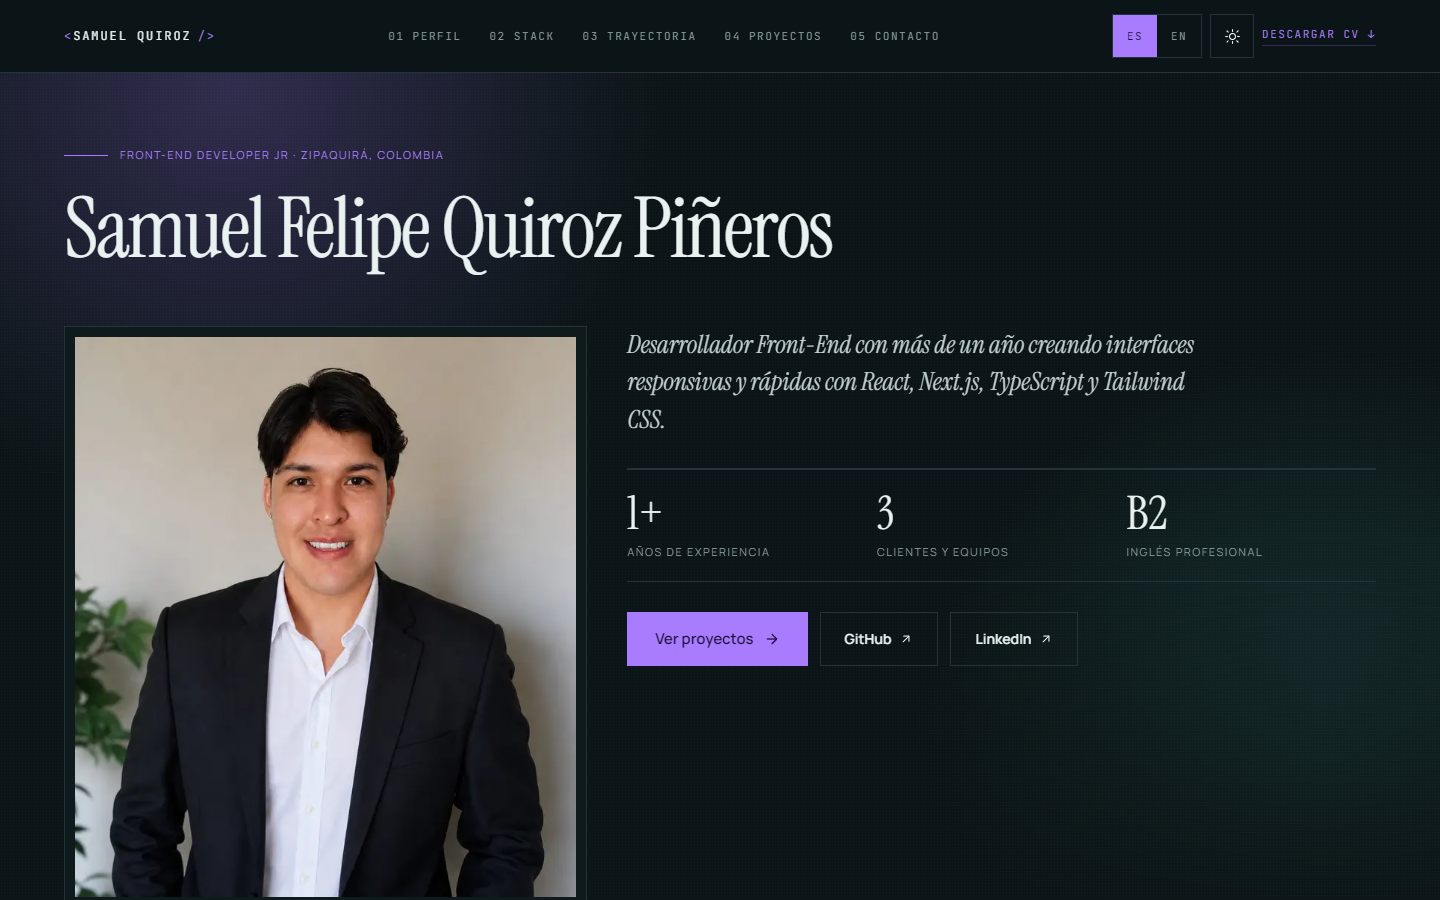
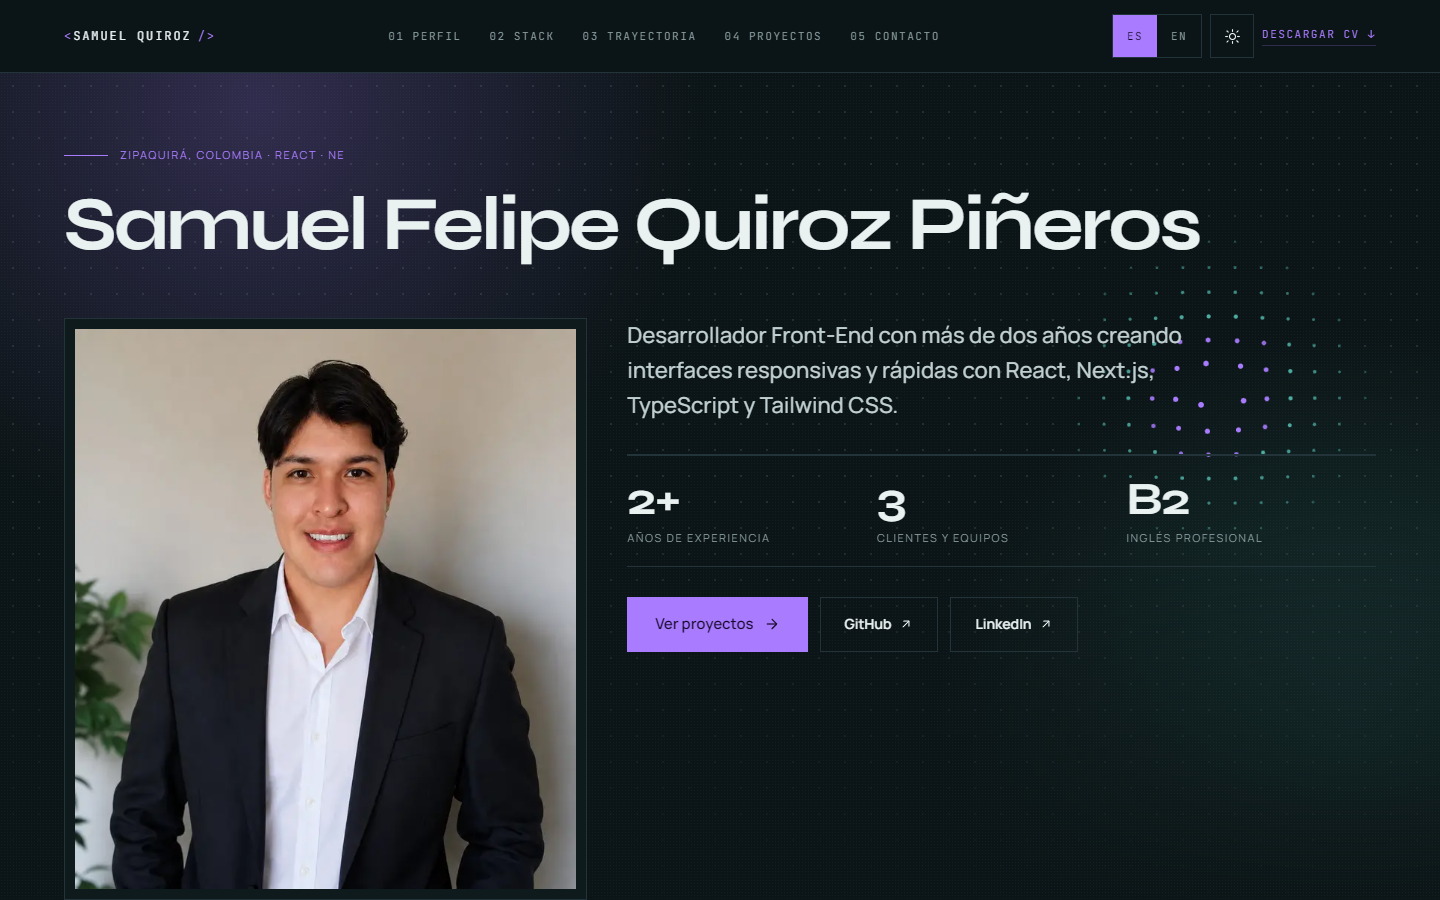
docs: README con la web en vivo, captura nueva y las funciones actuales
- Enlace a https://samuel-quiroz.vercel.app y badge de Lighthouse
- Describe Syne, el fondo interactivo, la inclinación 3D, la cinta del stack y los roles
- Captura tomada de la versión publicada

diff --git a/README.md b/README.md
@@ -7,10 +7,13 @@
 Portafolio personal construido con Next.js 15, TypeScript y Tailwind CSS v4.
 Lo diseñé y lo construí yo, sin plantillas.
 
+### [▶ Verlo en vivo · samuel-quiroz.vercel.app](https://samuel-quiroz.vercel.app)
+
 ![Next.js](https://img.shields.io/badge/Next.js_15-0b1416?style=flat-square&logo=nextdotjs&logoColor=white)
 ![React](https://img.shields.io/badge/React_19-0b1416?style=flat-square&logo=react&logoColor=5fd3c4)
 ![TypeScript](https://img.shields.io/badge/TypeScript-0b1416?style=flat-square&logo=typescript&logoColor=a97bff)
 ![Tailwind CSS](https://img.shields.io/badge/Tailwind_v4-0b1416?style=flat-square&logo=tailwindcss&logoColor=5fd3c4)
+![Lighthouse](https://img.shields.io/badge/Lighthouse-100_%C2%B7_100_%C2%B7_100_%C2%B7_100-0b1416?style=flat-square&logo=lighthouse&logoColor=5fd3c4)
 
 ![Vista previa del portafolio](docs/preview.png)
 
@@ -20,9 +23,16 @@ Lo diseñé y lo construí yo, sin plantillas.
 
 - **Tema claro y oscuro.** Al cambiar de tema, el nuevo se expande en círculo desde el botón (View Transitions API).
 - **Dos idiomas, español e inglés.** Todos los textos viven en un solo diccionario tipado.
-- **Animaciones propias, sin librerías.** El nombre se «descifra» como en una terminal, los títulos suben palabra a palabra y las líneas de sección se dibujan solas. Las tarjetas tienen un foco que sigue al cursor y hay una barra de lectura ligada al scroll.
-- **Rendimiento.** Solo se anima `transform`, `opacity` y `clip-path`. Todo el sistema de movimiento suma unos 3 kB de JavaScript y la página es estática.
-- **Accesibilidad.** Respeta `prefers-reduced-motion` y los lectores de pantalla leen siempre el texto real, no los caracteres del efecto. Sin JavaScript, la página se ve completa.
+- **Fondo interactivo.** Una cuadrícula de puntos en canvas que se enciende y se aparta alrededor del cursor. Solo dibuja mientras algo cambia: en reposo no gasta ni un fotograma.
+- **Animaciones propias, sin librerías.**
+  - Tarjetas con inclinación 3D y reflejo que siguen al cursor.
+  - Cinta infinita con todo el stack.
+  - El rol del hero se escribe y se borra como en una terminal, y las cifras se «descifran».
+  - Los títulos suben palabra a palabra y las líneas de sección se dibujan solas.
+  - Barra de lectura ligada al scroll y cabecera que se aparta al bajar.
+- **Tipografía.** Syne en los títulos, Manrope en el texto y JetBrains Mono en las etiquetas.
+- **Rendimiento.** Solo se anima `transform`, `opacity` y `clip-path`, y la página es estática. Lighthouse da 100 en rendimiento, accesibilidad, buenas prácticas y SEO en escritorio (96 de rendimiento en móvil).
+- **Accesibilidad.** Respeta `prefers-reduced-motion`, los lectores de pantalla leen siempre el texto real (nunca los caracteres de un efecto) y, si el JavaScript no llega a cargar, la página se muestra completa igualmente.
 - **Del diseño al código.** En [`Design/`](Design/) están las maquetas de escritorio, tablet y móvil, junto con las tres propuestas descartadas.
 
 ## Estructura
@@ -35,7 +45,7 @@ Portafolio/
     └── src/
         ├── app/         Layout, página y estilos globales (tokens de color y animaciones)
         ├── components/  Secciones de la página
-        │   └── motion/  Reveal, Scramble y MotionLayer: el sistema de animación
+        │   └── motion/  Reveal, Scramble, Typewriter, DotField y MotionLayer: el sistema de animación
         └── lib/         Contenido bilingüe, datos del sitio y hooks de movimiento
 ```
 
